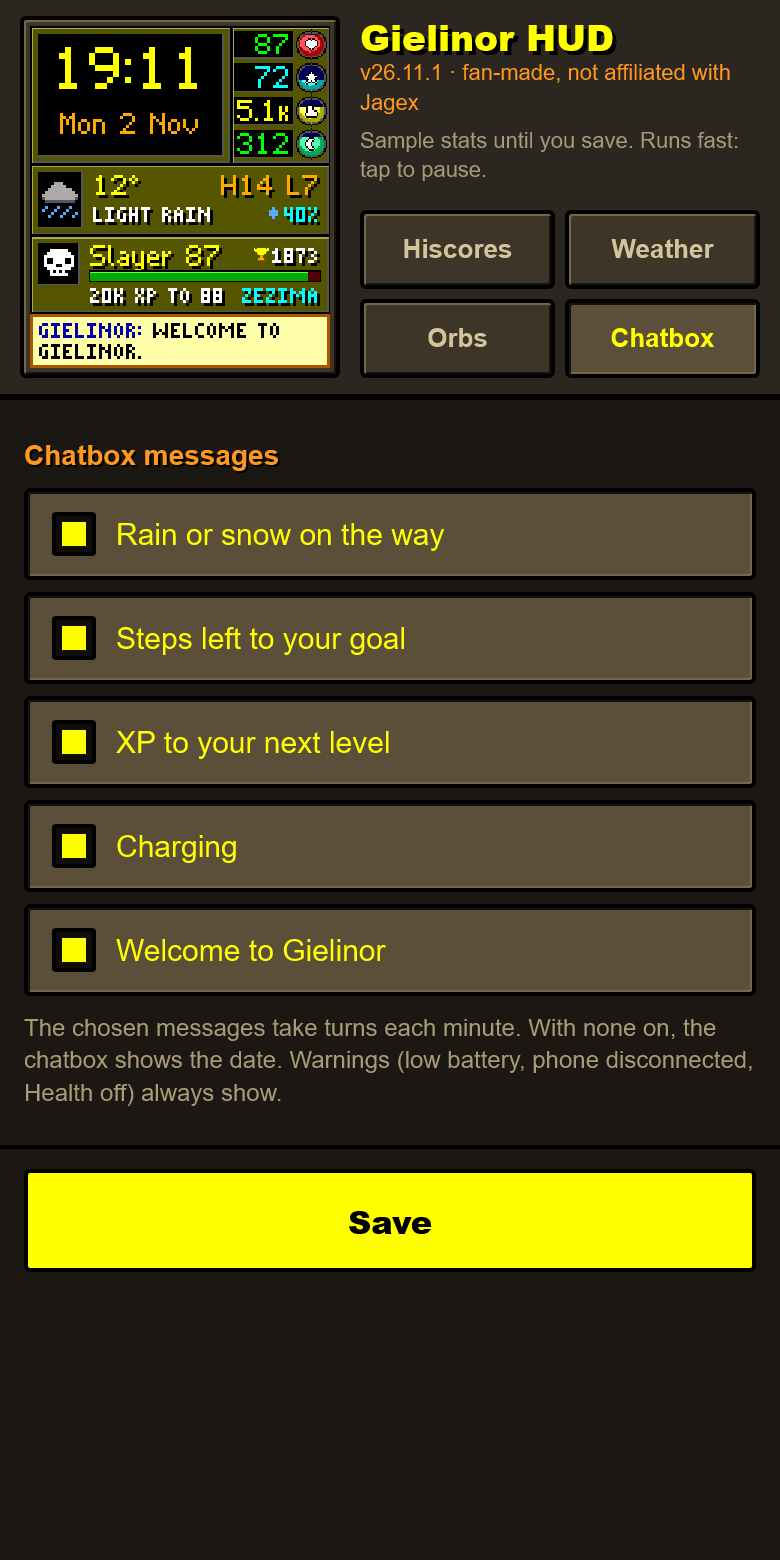
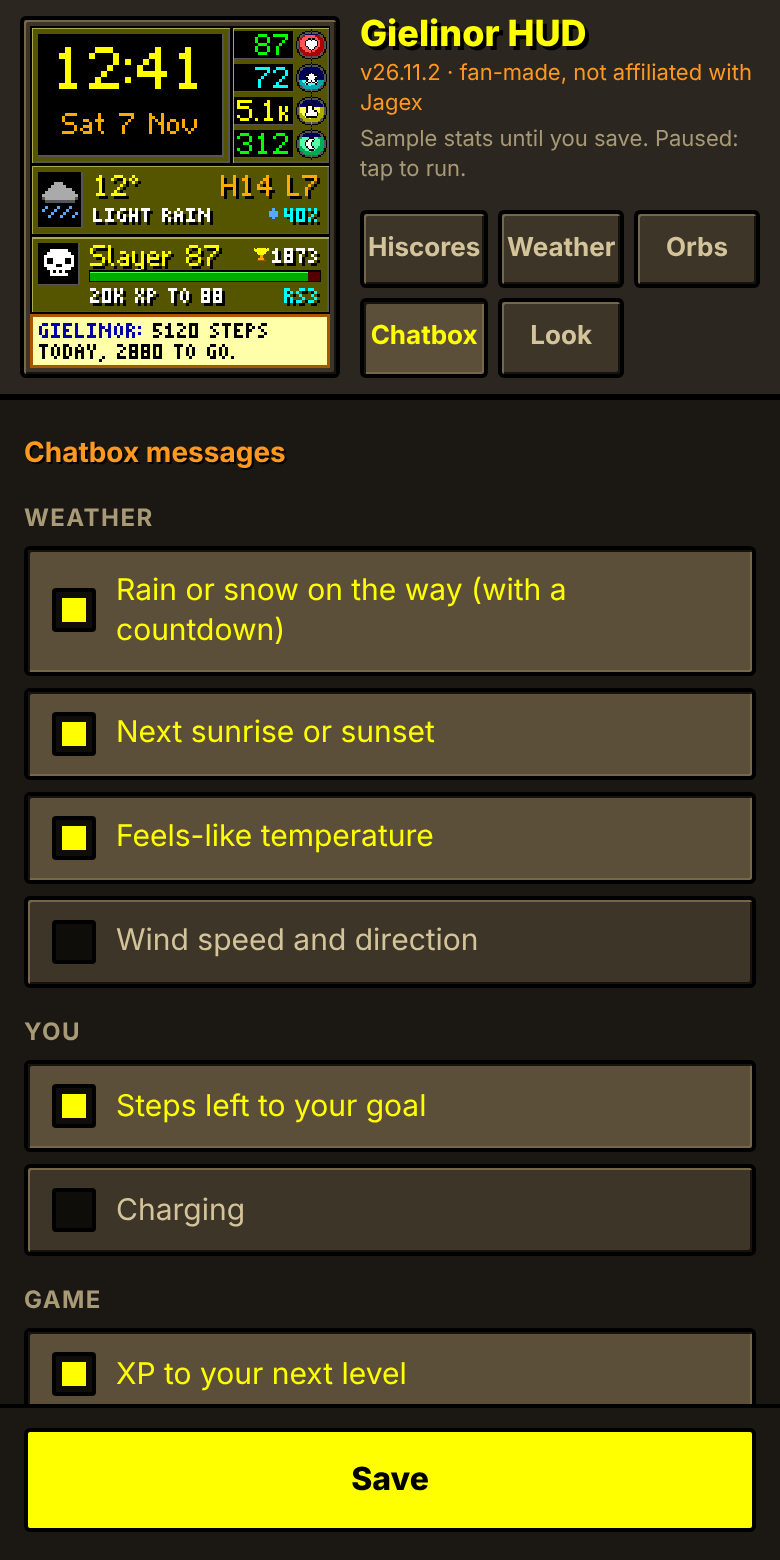
Docs: Round 2, themes, modes and chatbox in the README; v26.11.2 changelog
README covers the Round 2 beta, themes, hiscore modes, chatbox messages and
settings, with new screenshots for both watches, an FAQ and privacy notes
(OSRS Wiki prices). TECHNICAL.md covers the two layouts, one layout per
watch build, Quick View, themes and memory.

diff --git a/README.md b/README.md
@@ -1,14 +1,14 @@
 <h1 align="center">Gielinor HUD</h1>
 
 <p align="center">
-  <b>An Old School RuneScape-inspired watchface for the Pebble Time 2.</b><br>
+  <b>An Old School RuneScape-inspired watchface for the Pebble Time 2 and Pebble Round 2.</b><br>
   Your day as a game screen: status orbs, live weather, your real hiscores and a chatbox.
 </p>
 
 <p align="center">
   <a href="https://apps.repebble.com/b23f973d0f0141e9b99f114a"><img src="https://img.shields.io/badge/Pebble%20appstore-get%20it-ffff00?labelColor=3e3529" alt="Get it on the Pebble appstore"></a>
   <a href="https://github.com/TechnoidAlpha/gielinor-hud-pebble/releases/latest"><img src="https://img.shields.io/github/v/release/TechnoidAlpha/gielinor-hud-pebble?label=download&color=ffff00&labelColor=3e3529" alt="Latest release"></a>
-  <img src="https://img.shields.io/badge/watch-Pebble%20Time%202-ff981f?labelColor=3e3529" alt="Pebble Time 2">
+  <img src="https://img.shields.io/badge/watch-Pebble%20Time%202%20%7C%20Round%202%20(beta)-ff981f?labelColor=3e3529" alt="Pebble Time 2 and Pebble Round 2 (beta)">
   <img src="https://img.shields.io/badge/price-free-00aa00?labelColor=3e3529" alt="Free">
   <a href="LICENSE"><img src="https://img.shields.io/badge/licence-MIT-aaaaaa?labelColor=3e3529" alt="MIT licence"></a>
 </p>
@@ -19,8 +19,14 @@
 
 <p align="center">
   <img src="docs/screenshots/sunny.png" width="200" alt="Sunny day, Woodcutting hiscore">
-  <img src="docs/screenshots/storm.png" width="200" alt="Thunderstorm, Magic hiscore">
-  <img src="docs/screenshots/today.png" width="200" alt="Snow, XP gained today">
+  <img src="docs/screenshots/dark.png" width="200" alt="Dark theme">
+  <img src="docs/screenshots/kc.png" width="200" alt="Zulrah kill count">
+</p>
+
+<p align="center">
+  <img src="docs/screenshots/round-hero.png" width="230" alt="Pebble Round 2: the minimap layout">
+  <img src="docs/screenshots/round-levelup.png" width="230" alt="Pebble Round 2: a level-up moment">
+  <br><sub>On the Pebble Round 2 (beta): the minimap layout</sub>
 </p>
 
 <!-- PHOTO: replace with a real on-wrist photo of a Pebble Time 2 running the face
@@ -53,13 +59,19 @@ Top to bottom, the screen shows:
 | **Clock** | The time and date in big pixel numbers with drop shadows, in an original OSRS-style font. Follows your watch's 12/24-hour setting. |
 | **Status orbs** | Four orbs, coloured green to red like the game's: battery, heart rate, steps and sleep, or the stats you choose. [More](#status-orbs) |
 | **Weather** | Temperature, conditions, today's high and low, and the chance of rain or snow, from your phone's location or a city you choose. |
-| **Hiscores** | Your real Old School RuneScape or RuneScape 3 stats, with an XP bar to your next level. Four ways to show them. [More](#hiscores-panel) |
-| **Chatbox** | Short messages that take turns: rain on the way, steps left, XP to your next level and more. [More](#chatbox) |
+| **Hiscores** | Your real Old School RuneScape or RuneScape 3 stats, with an XP bar to your next level. Six ways to show them, including a boss kill count and a Grand Exchange price. [More](#hiscores-panel) |
+| **Chatbox** | Short messages that take turns: a rain countdown, sunset, steps left, XP to your next level, level-ups and more. [More](#chatbox) |
 
 And around it:
 
+- **Three themes:** Classic stone, Dark like the modern client, and Bright for reading in
+  sunlight.
+- **Pebble Round 2 (beta):** its own round layout in the style of the game's minimap, with bigger
+  text and an XP ring.
+  [More](#pebble-round-2-beta)
 - **Settings with a live preview** of the face, so you see every change as you make it.
   [More](#settings)
+- **Makes room for Timeline Quick View** instead of hiding under it.
 - **No blank screen.** Come back from Timeline, Health or an app and the frame, clock and date
   are there at once.
 - **Gentle on battery.** It redraws once a minute, and your phone does all the fetching.
@@ -90,19 +102,27 @@ School in the panel and puts RuneScape 3 in the chatbox. Choose what it shows:
 | Rotate | A different skill every 1, 5, 15 or 60 minutes |
 | Closest to a level-up | The skill you're nearest to levelling |
 | XP gained today | Today's XP, plus your top skill of the day |
+| Kill count | A boss or clue scroll total of your choice, with your rank (Old School) |
+| GE price | One Grand Exchange item's price and how it moved since yesterday (prices from the OSRS Wiki) |
 
-Every mode has an XP bar to your next level. Every skill has its own icon, from Sailing to
+The skill modes have an XP bar to your next level. Every skill has its own icon, from Sailing to
 Necromancy.
+
+Two extras, each with a switch in Settings:
+
+- **Level-up moments.** When a refresh finds a new level, the panel shows it with fireworks and the
+  chatbox congratulates you, for an hour.
+- **Account helms.** A small Ironman, Hardcore or Ultimate helm beside your name.
 
 ### Chatbox
 
 Choose which of these take turns, one each minute:
 
-- Rain or snow on the way, and roughly when
-- Steps left to your daily goal
-- XP to your next level
-- Charging, while the watch is on its charger
-- Welcome to Gielinor
+- **Weather:** rain or snow on the way (a countdown when it's under two hours), the next sunrise
+  or sunset, the feels-like temperature, and wind speed and direction
+- **You:** steps left to your daily goal, and charging while the watch is on its charger
+- **Game:** XP to your next level, level-ups, and your Grand Exchange item's price
+- **Other:** Welcome to Gielinor
 
 With none chosen, the chatbox shows the date. Warnings always come first: battery at 15% or
 less, phone disconnected, and Pebble Health turned off.
@@ -117,9 +137,11 @@ preview of the face sits at the top and shows each change as you make it.
 - **Weather:** phone GPS or a typed city, Celsius or Fahrenheit, how often to refresh
 - **Orbs:** what each orb shows (battery, heart rate, steps, sleep, active minutes, distance or
   calories) and your goals
-- **Chatbox:** which messages it shows
+- **Chatbox:** which messages it shows, grouped by weather, you and the game
+- **Look:** the theme, with a preview of each
 
-The clock follows your watch's 12/24-hour setting.
+On a Pebble Round 2 the preview shows the round layout. The clock follows your watch's 12/24-hour
+setting.
 
 <table>
   <tr>
@@ -130,12 +152,44 @@ The clock follows your watch's 12/24-hour setting.
     <td align="center"><img src="docs/screenshots/settings-orbs.png" width="300" alt="Orbs tab: what each orb shows, and daily goals"><br><b>Orbs</b>: what each one shows, and your goals</td>
     <td align="center"><img src="docs/screenshots/settings-chatbox.png" width="300" alt="Chatbox tab: which messages appear"><br><b>Chatbox</b>: which messages appear</td>
   </tr>
+  <tr>
+    <td align="center"><img src="docs/screenshots/settings-kc.png" width="300" alt="Kill count picker with a search box"><br><b>Kill count</b>: pick any boss or clue</td>
+    <td align="center"><img src="docs/screenshots/settings-look.png" width="300" alt="Look tab: three themes with previews"><br><b>Look</b>: Classic, Dark or Bright</td>
+  </tr>
 </table>
+
+## Pebble Round 2 (beta)
+
+On the round screen the face gets its own layout, drawn bigger to suit it:
+
+- **Clock:** a 35 px clock and the date in a viewport shaped like the top of the screen.
+- **Minimap:** your hiscore at a glance, the skill's icon and its level in big digits (or your
+  kill count, GE price or today's XP), with your progress to the next level as a ring round the
+  rim, like the game's XP orb.
+- **Orbs:** bigger, two either side of the minimap.
+- **Chatbox and weather:** the chatbox runs across the wide middle of the screen and the weather
+  sits at the bottom, both in larger text.
+
+Every setting works the same. It's built and tested on the Round 2 emulator, but I don't have a
+Round 2 to try it on. If you do, please
+[open an issue](https://github.com/TechnoidAlpha/gielinor-hud-pebble/issues) with a photo, good or
+bad.
+
+<p align="center"><img src="docs/screenshots/round-dark.png" width="230" alt="Pebble Round 2, Dark theme"> <img src="docs/screenshots/round-kc.png" width="230" alt="Pebble Round 2, kill count"></p>
 
 ## FAQ
 
 **Which watches does it work on?**
-The Pebble Time 2. It's designed for its 200×228 colour screen. Other Pebbles aren't supported.
+The Pebble Time 2 (200×228) and, in beta, the Pebble Round 2 (260×260 round). Older Pebbles
+aren't supported.
+
+**Why does the face change colour a moment after it opens?**
+The watch paints the Classic frame instantly while the face starts. With the Dark or Bright theme
+it then takes on your theme's colours, a fraction of a second later.
+
+**The GE price says the item wasn't found.**
+Type the item's name as it appears in the game, for example "Abyssal whip". Part of a name works
+too: the first item that contains it is used.
 
 **The weather has gone grey.**
 The face greys out weather that is more than 3 hours old and shows its age instead of the
@@ -162,13 +216,15 @@ Yes, please [open an issue](https://github.com/TechnoidAlpha/gielinor-hud-pebble
 
 ## Privacy
 
-The face has no server of its own and collects nothing. Your phone only talks to two public
+The face has no server of its own and collects nothing. Your phone only talks to these public
 services:
 
 - [Open-Meteo](https://open-meteo.com/) receives your approximate location (or the city you
   typed) to fetch the weather.
 - Jagex's official hiscores (`secure.runescape.com`, plus RuneMetrics at `apps.runescape.com`
   for RuneScape 3) receive the character name you entered.
+- If you use the price watch, the [OSRS Wiki's prices API](https://prices.runescape.wiki/)
+  receives the item you chose.
 
 Your settings stay on your phone. Health data never leaves the watch.
 
@@ -178,7 +234,8 @@ Everything you see on the watch was made from scratch for this face. No files fr
 RuneScape or RuneScape are in this repository or in the watchface: no sprites, icons, fonts,
 screenshots, sounds or logos.
 
-- **Icons:** all 45 (weather, orbs and every skill in both games) are original pixel art. Each
+- **Icons:** all 49 (weather, orbs, every skill in both games, helms, clue scroll, coins and the
+  rest) are original pixel art. Each
   one is a line of text in [`src/embeddedjs/main.js`](src/embeddedjs/main.js), so you can read
   every pixel.
 - **Fonts:** the pixel fonts are drawn letter by letter as text in
@@ -186,8 +243,8 @@ screenshots, sounds or logos.
 - **Pictures in this README:** screenshots of the face running in the Pebble emulator and of
   its own settings page, plus a banner and demo put together from those screenshots by
   [`tools/banner.py`](tools/banner.py) and [`tools/demo_gif.py`](tools/demo_gif.py).
-- **Layout:** the orbs, stone panels and chatbox are a tribute to the game's interface, redrawn
-  for a 200×228 watch screen.
+- **Layout:** the orbs, stone panels, minimap and chatbox are a tribute to the game's interface,
+  redrawn for a 200×228 watch screen and a 260×260 round one.
 - **Your stats:** fetched live from Jagex's public hiscores. None of their data ships with the
   face.
 
@@ -199,6 +256,7 @@ Jagex. The face is free and makes no money.
 - Made by [Technoid](https://github.com/TechnoidAlpha) in answer to
   [a request on r/pebble](https://www.reddit.com/r/pebble/comments/1xm2j8j/request/) for an OSRS watchface.
 - Weather data by [Open-Meteo.com](https://open-meteo.com/) (CC BY 4.0).
+- Grand Exchange prices from the [OSRS Wiki](https://prices.runescape.wiki/).
 
 ## Disclaimer
 

diff --git a/docs/TECHNICAL.md b/docs/TECHNICAL.md
@@ -6,7 +6,7 @@ For people reading the source. Installing the face needs none of this: see the
 ## Building
 
 ```bash
-pebble build                          # Pebble SDK 4.33+, emery
+pebble build                          # Pebble SDK 4.33+, emery and gabbro
 pebble install --phone <phone-ip>     # developer connection enabled in the Pebble app
 ```
 
@@ -30,8 +30,13 @@ hasn't seen before, which the tag check already ensures.
   `src/settings/settings.html`, the drawing code or a font (CI checks this).
 - `node tools/test_face.js` tests the face's logic (skill rotation, orbs, chatbox) without a
   watch. CI runs it.
-- The emulator scripts (`tools/emu/`) run the emery emulator on a virtual X display, so they
-  need Linux or WSL with `Xvfb` and ImageMagick.
+- The emulator scripts (`tools/emu/`) run the emulator on a virtual X display, so they need
+  Linux or WSL with `Xvfb` and ImageMagick. `PLATFORM=gabbro` in front of `emu.sh`, `shots.sh`
+  or `startframe_diff.sh` switches them to the Pebble Round 2; round screenshots are saved as
+  `round-<name>.png`.
+- `pebble emu-steps 5432`, `emu-sleep 445`, `emu-heart-rate 68` and
+  `emu-set-timeline-quick-view on|off` (each with `--emulator emery|gabbro`) fake Health data
+  and the Quick View peek on a running emulator.
 
 ## Start frame
 
@@ -55,13 +60,68 @@ For that hand-over to be invisible the two pictures must match exactly:
 - `tools/startframe_diff.sh` builds a C-only variant and a JS-held-before-restore variant,
   captures both on the emulator and fails unless they are pixel-identical.
 
+## Two layouts
+
+`main.js` draws both from the same helpers, chosen by the screen's shape (`ROUND = W === H`):
+
+- **Time 2 (emery, 200x228):** the game screen, with the clock viewport, the orb column and the
+  stone panels.
+- **Round 2 (gabbro, 260x260):** the minimap layout, drawn bigger: 15 px capitals (`px-n3`,
+  px-n's glyphs at 3x) and a 35 px clock (`px-c5`). Every pixel belongs to the stone frame
+  (`roundBackdrop`), so nothing floats on bare black. Top to bottom: the clock and date in a
+  viewport shaped like the top of the screen (`CV_*`); the minimap (`MM_Y`, `MM_R`) holding your
+  hiscore at a glance (skill icon and level in 35 px digits, or a kill count, price or today's
+  XP), with the XP to the next level as a ring round its rim (`xpRing`), like the game's XP orb;
+  two bigger orbs either side (`roundOrb`, 2x glyphs); the chatbox across the wide middle of the
+  screen (`CH_Y`), wrapped to the curve; and the weather in the bottom band (`WX_Y`), dropping
+  the high/low first when the row is too wide. Shapes are rows clipped to a circle (`chord(y, r)`,
+  `roundBand`).
+
+The Round 2 is about 200 ppi, the same density as the Time 2, but the screen is smaller and round,
+so the first round layout (10 px text in a minimap) read as small. The redesign trades density for
+size: fewer things, each bigger.
+
+### One layout per watch build
+
+`main.js` holds both layouts between `// ==== layout: square|round begin/end ====` markers, and
+the settings preview and `tools/test_face.js` use it whole. Each watch's build carries only its
+own: `tools/gen_layouts.py` writes `src/embeddedjs/gen/main-emery.js` and `main-gabbro.js` (the
+other layout blanked out, so line numbers still match), `manifest.json` points each platform at
+its copy, and each platform gets only its own fonts. pebble-tool compiles the JS (`mcrun`) before
+`wscript` runs, so the copies are committed (a fresh clone needs them), `wscript` runs the
+generator and, when a copy changed, runs `mcrun` again the same way pebble-tool does, and CI
+fails if they're stale (`gen_layouts.py --check`). The test suite checks that neither layout block uses anything defined
+only in the other.
+
+The C start frame has a matching branch for each (`#ifdef PBL_ROUND` in `mdbl.c`, with the same
+`chord` done in integers, and only that watch's glyph tables from `startframe.h`), and
+`startframe_diff.sh` checks both.
+
+## Timeline Quick View
+
+The `resize` event carries no value on this SDK, but Piu shrinks the app to the part of the
+screen that's still visible. So the listener reads `app.height`: 228 → 170 on the Time 2
+emulator, a 58 px peek. The Time 2 then drops the chatbox and draws the hiscores panel at
+whatever height is left (title and XP bar). On the round screen the peek is a band across the
+middle; the round face draws as normal and the peek simply sits over it.
+
+## Themes
+
+`C` is the live palette. `applyTheme()` copies a theme's overrides over the Classic values
+(`BASE`) whenever settings arrive. Text in a dark well (clock, date, orb numbers) keeps fixed
+colours; text drawn straight on a panel uses the `p*` keys through `ptxt()`, so Bright can turn
+it dark and drop the shadow, which blurs dark text. The C start frame always paints Classic: C
+can't read the face's settings (JS storage and C persist are separate files), so Dark and Bright
+recolour a moment after the face opens.
+
 ## How it is drawn
 
 The whole face is one Piu `Port`. Its `onDraw` paints the panels, orbs and icons with
 `fillColor` runs and the text with `drawString`, so no per-element `Content` objects exist. A
 minute tick is just `invalidate()`. Each icon is a single string (two-digit width, then the
-rows concatenated) over a small palette, so the icons live in the mod archive rather than as
-arrays on the slot heap.
+rows concatenated) over a small palette, run-length coded: a digit 2-9 repeats the next
+character. One string per icon keeps them in the mod archive rather than as arrays on the slot
+heap, and the run-length coding halved them (5.0 KB to 2.3 KB).
 
 Text gets its shadow from drawing each string twice: once in black, offset by one art pixel,
 then in colour.
@@ -70,14 +130,29 @@ then in colour.
 
 Measured on the SDK 4.33 emulator as OS heap "Used" at app exit, out of 122568 bytes:
 
-| slot / chunk | Used | Left for PebbleOS |
-|--------------|------|-------------------|
-| 34816 / 40960 | 117052 | ~5 KB, too tight |
-| **28672 / 32768** (shipped) | 102716 | ~20 KB |
+| version, mod size | slot / chunk | Used | Left for PebbleOS |
+|-------------------|--------------|------|-------------------|
+| v26.11.1, 41 KB | 34816 / 40960 | 117052 of 122568 | ~5 KB, too tight |
+| v26.11.1, 41 KB | 28672 / 32768 | 102716 of 122568 | ~20 KB |
+| v26.11.2 draft, both layouts in each build (47 KB) | 32768 / 26624 | 115816 of 118560 | ~2.7 KB, too tight |
+| **v26.11.2 emery, 42.1 KB** | **30720 / 26624** | 108044 of 118560 | ~10.5 KB |
+| **v26.11.2 gabbro, 43.6 KB** | **31744 / 26624** | 110900 of 118560 | ~7.6 KB |
 
-Storing the icons as arrays of row strings cost about 5 KB of bytecode, and at 34816/40960
-the mod archive failed to map (`fxMapArchive failed`). Single strings fixed both. Re-check
-on real hardware before raising either number.
+The v26.11.2 figures are worst cases: real data for both games, a kill count, a GE price and
+every chatbox message on. Slot is the tight heap, because the module's functions and tables need
+it just to start: emery starts from 28672 (27648 fails with "Slot allocation: failed"), gabbro
+from 29696, and each record adds about 2 KB. What brought it back from "too tight":
+
+- each watch builds only its own layout and fonts (above), which also cuts the functions slot
+  has to hold;
+- no SDK TypeScript typings include (2.4 KB of `tsconfig` modules the face never used);
+- identical glyphs share atlas spots (px-n's lowercase letters are its capitals);
+- the icons are run-length coded;
+- the screenshot sample data is built only when asked.
+
+ClaudeUsageRings found the real PT2 hangs with heaps plus mod at about 115.7 KB and works at
+113.7 KB; here it's 105.6 KB (emery) and 108.1 KB (gabbro). Re-check on real hardware before
+raising either number.
 
 ## Settings page
 
@@ -110,7 +185,11 @@ It runs a minute every 1.5 seconds to show what changes each minute.
 - With two games on, the game switch and the skill rotation can tick on the same clock. Each
   game's skill then moves on once per round of games (`sameTick` in `main.js`); otherwise Old
   School only ever showed the even-numbered skills.
-- `DATA` for two games is about 1.25 KB in practice and 1.6 KB at worst (every RS3 skill past
-  110), inside the watch's 2048-byte inbox.
+- `DATA` for two games is about 1.1-1.25 KB in practice (1121 bytes measured with a maxed Old
+  School account, a maxed RS3 account, a kill count, a GE price and the weather extras) and about
+  1.85 KB at worst (every RS3 skill past 110), inside the watch's 2048-byte inbox.
+- The OSRS Wiki prices API asks for a descriptive User-Agent. The phone's own browser agent
+  satisfies it; the `/mapping` list (every item, a few MB) is fetched once per item change, and
+  only the chosen id is cached.
 - Known limit: the phone works out RuneScape 3 progress with the standard XP table, so
   Invention, which uses the elite table, shows the wrong XP to its next level.

diff --git a/CHANGELOG.md b/CHANGELOG.md
@@ -2,6 +2,27 @@
 
 Versions are `YY.MM.REV`: the year, the month, and the release number within that month.
 
+## v26.11.2
+
+- Pebble Round 2 support (beta): its own layout in the style of the game's minimap, drawn big
+  for the round screen. A 35 px clock and date on top; the minimap shows your hiscore at a glance
+  with your XP to the next level as a ring round it, like the game's XP orb; bigger orbs either
+  side; the chatbox across the middle and the weather at the bottom, all in larger text. Built
+  and tested on the Round 2 emulator; reports from real watches are very welcome.
+- Themes: Classic stone, Dark (the modern client's look) and Bright (easiest to read in sunlight),
+  with a live preview of each in Settings
+- Timeline Quick View: the face now makes room for the peek instead of drawing under it
+- New hiscores panel modes: a boss or clue kill count of your choice (Old School), and a Grand
+  Exchange price watch for one item (prices from the OSRS Wiki)
+- Level-up moments: when a refresh finds a new level, the panel and chatbox celebrate it for an hour
+- Account helms beside your name for Ironman, Hardcore and Ultimate accounts
+- New chatbox messages, each with its own switch: a rain countdown, the next sunrise or sunset, the
+  feels-like temperature, wind, level-ups and the GE price
+- Settings: a Look tab, the kill-count picker and GE item, chatbox switches grouped by topic, and
+  the preview shows the round layout when your watch is a Round 2
+- Lighter on memory: each watch now gets only its own layout and fonts, which keeps headroom with
+  every new feature switched on
+
 ## v26.11.1
 
 First public release.
